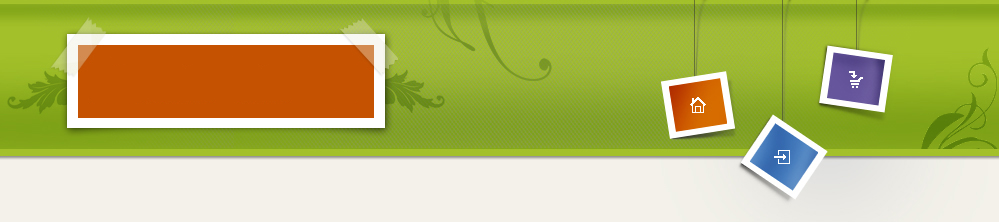
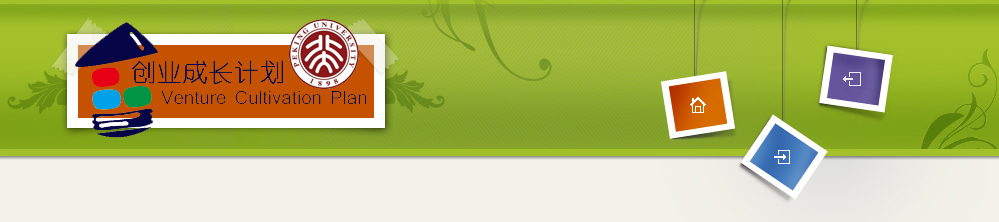
1.修复报名截止、作品提交截止的时间显示错误 2.添加图片替换功能 3.Common.class.php添加删除文件夹和上传文件到指定文件夹 4.修改logo、header

Changed region(s): [[0.0621, 0.0811, 0.3724, 0.6216], [0.8378, 0.3243, 0.8689, 0.4054]]

diff --git a/webApp/Tpl/Admin/Index/leftframe.html b/webApp/Tpl/Admin/Index/leftframe.html
@@ -190,6 +190,8 @@ var preClassName = "";
     outlookbar.additem('作品信息',t,'__GROUP__/Competition/applywork')
     outlookbar.additem('分配作品',t,'__GROUP__/Competition/assignwork')
     outlookbar.additem('回收评审',t,'__GROUP__/Competition/getbackwork')
+    outlookbar.additem('图片管理',t,'__GROUP__/Competition/pictures')
+    
 	
 	t=outlookbar.addtitle('创业导师计划','助跑创业',1)
 	outlookbar.additem('分配导师',t,'__GROUP__/Tutors/assigntutor')
@@ -205,6 +207,7 @@ var preClassName = "";
 	outlookbar.additem('报名情况',t,'__GROUP__/Activity/apply')
 	outlookbar.additem('新闻通知',t,'__GROUP__/Activity/newslist')
 	outlookbar.additem('发布信息',t,'__GROUP__/Activity/news/add')
+	outlookbar.additem('图片管理',t,'__GROUP__/Activity/pictures')
 	
 	t=outlookbar.addtitle('河合创业基金','加油创业',1)
 	outlookbar.additem('新闻通知',t,'__GROUP__/HHFund/newslist')
@@ -215,6 +218,7 @@ var preClassName = "";
     outlookbar.additem('作品信息',t,'__GROUP__/HHFund/applywork')
     outlookbar.additem('分配作品',t,'__GROUP__/HHFund/assignwork')
     outlookbar.additem('回收评审',t,'__GROUP__/HHFund/getbackwork')
+	outlookbar.additem('图片管理',t,'__GROUP__/HHFund/pictures')
 	
 	
 	t=outlookbar.addtitle('腾飞创业','腾飞创业',1)

diff --git a/webApp/Tpl/Home/Index/header.html b/webApp/Tpl/Home/Index/header.html
@@ -1,7 +1,7 @@
 <div id="header">
 	<div id="browsertip"></div>
 	<div id="header_inside">
-		<img src="__PUBLIC__/css/images/index/header2.png" alt="setalpm"
+		<img src="__PUBLIC__/css/images/index/header13.png"
 			width="999" height="222" border="0" usemap="#Map" /><br />
 		<div class="main_nav">
 			<ul id="menu">
@@ -97,6 +97,7 @@
 
 		</div>
 	</div>
+		
 
 </div>
 <map name="Map">

diff --git a/webApp/Lib/Action/Admin/HHFundAction.class.php b/webApp/Lib/Action/Admin/HHFundAction.class.php
@@ -545,5 +545,62 @@ class HHFundAction extends Action{
 			$this->error("未知错误");
 		}
 	}
+	
+	/**
+	 * 图片管理
+	 */
+	public function pictures(){
+		AuthorityAction::checkAdminLogin();
+		if($_POST['imgtype']){
+			if($_POST['imgtype']=="index"){
+				if($_FILES ["file"]&&substr($_FILES["file"]["name"],strlen($_FILES["file"]["name"])-strlen(".png"))==".png"){
+					echo Common::uploadFileForDes("./Public/images/home/", "hhjj.png");
+					echo "<br>更换成功！";
+				}
+			}else if($_POST['imgtype']=="baoming"){
+				if($_FILES ["file"]&&substr($_FILES["file"]["name"],strlen($_FILES["file"]["name"])-strlen(".png"))==".png"){
+					echo Common::uploadFileForDes("./Public/images/home/", "hhjjbm.png");
+					echo "<br>更换成功！";
+				}
+			}else if($_POST['imgtype']=="baomingB"){
+				if($_FILES ["file"]&&substr($_FILES["file"]["name"],strlen($_FILES["file"]["name"])-strlen(".png"))==".png"){
+					echo Common::uploadFileForDes("./Public/images/home/", "hhbaoming.png");
+					echo "<br>更换成功！";
+				}
+			}else if($_POST['imgtype']=="zuopinB"){
+				if($_FILES ["file"]&&substr($_FILES["file"]["name"],strlen($_FILES["file"]["name"])-strlen(".png"))==".png"){
+					echo Common::uploadFileForDes("./Public/images/home/", "hhzuopin.png");
+					echo "<br>更换成功！";
+				}
+			}
+			Common::deleteDir("./webApp/Runtime");
+		}
+		$piclist[0]['id'] = 'index';
+		$piclist[0]['url'] = "__PUBLIC__/images/home/hhjj.png";
+		$piclist[0]['title'] = "创新赛事";
+		$piclist[0]['advice'] = "924*300";
+		$piclist[0]['height'] = "200";
+	
+		$piclist[1]['id'] = 'baoming';
+		$piclist[1]['url'] = "__PUBLIC__/images/home/hhjjbm.png";
+		$piclist[1]['title'] = "报名背景";
+		$piclist[1]['advice'] = "293*268";
+		$piclist[1]['height'] = "200";
+		
+		$piclist[2]['id'] = 'baomingB';
+		$piclist[2]['url'] = "__PUBLIC__/images/home/hhbaoming.png";
+		$piclist[2]['title'] = "报名按钮";
+		$piclist[2]['advice'] = "106*44";
+		$piclist[2]['height'] = "44";
+		
+		$piclist[3]['id'] = 'zuopinB';
+		$piclist[3]['url'] = "__PUBLIC__/images/home/hhzuopin.png";
+		$piclist[3]['title'] = "作品提交按钮";
+		$piclist[3]['advice'] = "106*44";
+		$piclist[3]['height'] = "44";
+	
+		$this->assign("piclist",$piclist);
+		$this->display("Activity:pictures");
+	}
 }
 ?>

diff --git a/webApp/Lib/Action/Admin/CompetitionAction.class.php b/webApp/Lib/Action/Admin/CompetitionAction.class.php
@@ -546,5 +546,63 @@ class CompetitionAction extends Action{
 			$this->error("未知错误");
 		}
 	}
+	
+	/**
+	 * 图片管理
+	 */
+	public function pictures(){
+		AuthorityAction::checkAdminLogin();
+		if($_POST['imgtype']){
+			if($_POST['imgtype']=="index"){
+				if($_FILES ["file"]&&substr($_FILES["file"]["name"],strlen($_FILES["file"]["name"])-strlen(".png"))==".png"){
+					echo Common::uploadFileForDes("./Public/images/home/", "cxss.png");
+					echo "<br>更换成功！";
+				}
+			}else if($_POST['imgtype']=="baoming"){
+				if($_FILES ["file"]&&substr($_FILES["file"]["name"],strlen($_FILES["file"]["name"])-strlen(".png"))==".png"){
+					echo Common::uploadFileForDes("./Public/images/home/", "cxssbm.png");
+					echo "<br>更换成功！";
+				}
+			}
+			else if($_POST['imgtype']=="baomingB"){
+				if($_FILES ["file"]&&substr($_FILES["file"]["name"],strlen($_FILES["file"]["name"])-strlen(".png"))==".png"){
+					echo Common::uploadFileForDes("./Public/images/home/", "baoming.png");
+					echo "<br>更换成功！";
+				}
+			}else if($_POST['imgtype']=="zuopinB"){
+				if($_FILES ["file"]&&substr($_FILES["file"]["name"],strlen(".png"))==".png"){
+					echo Common::uploadFileForDes("./Public/images/home/", "zuopin.png");
+					echo "<br>更换成功！";
+				}
+			}
+			Common::deleteDir("./webApp/Runtime");
+		}
+		$piclist[0]['id'] = 'index';
+		$piclist[0]['url'] = "__PUBLIC__/images/home/cxss.png";
+		$piclist[0]['title'] = "创新赛事";
+		$piclist[0]['advice'] = "924*300";
+		$piclist[0]['height'] = "200";
+		
+		$piclist[1]['id'] = 'baoming';
+		$piclist[1]['url'] = "__PUBLIC__/images/home/cxssbm.png";
+		$piclist[1]['title'] = "报名背景";
+		$piclist[1]['advice'] = "293*268";
+		$piclist[1]['height'] = "200";
+		
+		$piclist[2]['id'] = 'baomingB';
+		$piclist[2]['url'] = "__PUBLIC__/images/home/baoming.png";
+		$piclist[2]['title'] = "报名按钮";
+		$piclist[2]['advice'] = "106*44";
+		$piclist[2]['height'] = "44";
+		
+		$piclist[3]['id'] = 'zuopinB';
+		$piclist[3]['url'] = "__PUBLIC__/images/home/zuopin.png";
+		$piclist[3]['title'] = "作品提交按钮";
+		$piclist[3]['advice'] = "106*44";
+		$piclist[3]['height'] = "44";
+		
+		$this->assign("piclist",$piclist);
+		$this->display("Activity:pictures");
+	}
 }
 ?>

diff --git a/webApp/Lib/Action/Admin/Common.class.php b/webApp/Lib/Action/Admin/Common.class.php
@@ -6,6 +6,53 @@
 * 3、GBK转utf-8（用于下载）
 */
 class Common{
+	
+	/**
+	 * 删除指定目录内所有内容
+	 * @param unknown_type $dir
+	 */
+	public static function deleteDir($dir)
+	{
+		if (rmdir($dir)==false && is_dir($dir)) {
+			if ($dp = opendir($dir)) {
+				while (($file=readdir($dp)) != false) {
+					if (is_dir($file) && $file!='.' && $file!='..') {
+						deleteDir($file);
+					} else {
+						unlink($file);
+					}
+				}
+				closedir($dp);
+			} else {
+				exit('Not permission');
+			}
+		}
+	}
+	
+	/**
+	 * 上传文件到指定文件夹，指定文件名
+	 * @param unknown_type $des
+	 * @param unknown_type $filename
+	 * @return string
+	 */
+	public static function uploadFileForDes($des,$filename) {
+		if(!$_FILES ["file"]) return "nofile";
+		if (($_FILES ["file"] ["size"] < 10 * 1024 * 1024)) {
+	
+			if ($_FILES ["file"] ["error"] > 0) {
+				return ERROR;
+			} else {
+				$destfile = $des . $filename;
+				unlink($destfile);
+				move_uploaded_file ( $_FILES ["file"] ["tmp_name"], Common::utf82gbk($destfile));//上传附件
+				return SUCCESS;
+			}
+		} else {
+			//echo "Invalid file";
+			return "Invalidsize";
+		}
+	}
+	
 	public static function upload($suffix) {//添加后缀形式的文件上传，确保不冲突，以  ### 为分隔
 		if(!$_FILES ["file"]) return "nofile";
 		if (($_FILES ["file"] ["size"] < 10 * 1024 * 1024)) {

diff --git a/webApp/Lib/Action/Home/HhjjAction.class.php b/webApp/Lib/Action/Home/HhjjAction.class.php
@@ -67,10 +67,10 @@ class HhjjAction extends Action {
 			$baomingDay = 0;
 		}elseif(strtotime($now)>strtotime($act['st'])&&strtotime($now)<strtotime($act['at'])){
 			$baomingMsg = "baoming";
-			$baomingDay = date("d",strtotime($act['at'])-strtotime($now)); 
+			$baomingDay = round((strtotime($act['at'])-strtotime($now))/3600/24); 
 		}elseif(strtotime($now)>strtotime($act['at'])&&strtotime($now)<=strtotime($act['et'])){
 			$baomingMsg = "zuopin";
-			$baomingDay = date("d",strtotime($act['et'])-strtotime($now));		
+			$baomingDay = round((strtotime($act['et'])-strtotime($now))/3600/24);		
 		}else{
 			$baomingMsg = "敬请期待赛事来临";
 			$baomingDay = 0;
@@ -105,10 +105,10 @@ class HhjjAction extends Action {
 		$baomingButton = null;
 		$imgurl = null;
 		if($baomingMsg=="baoming"){
-			$baomingButton = "__PUBLIC__/images/home/baoming.png";
+			$baomingButton = "__PUBLIC__/images/home/hhbaoming.png";
 			$imgurl = "__URL__/baoming";
 		}elseif($baomingMsg=="zuopin"){
-			$baomingButton = "__PUBLIC__/images/home/zuopin.png";
+			$baomingButton = "__PUBLIC__/images/home/hhzuopin.png";
 			$imgurl = "__URL__/zuopin";
 		}
 		$this->assign("imgurl",$imgurl);

diff --git a/webApp/Lib/Action/Admin/ActivityAction.class.php b/webApp/Lib/Action/Admin/ActivityAction.class.php
@@ -280,5 +280,27 @@ class ActivityAction extends Action{
 		$this->assign("newslist",$newslist);
 		$this->display("applylist");
 	}
+	
+	/**
+	 * 图片管理
+	 */
+	public function pictures(){
+		AuthorityAction::checkAdminLogin();
+		if($_POST['imgtype'] == 'index'){
+			if($_FILES ["file"]&&substr($_FILES["file"]["name"],strlen($_FILES["file"]["name"])-strlen(".png"))==".png"){
+				echo Common::uploadFileForDes("./Public/images/home/", "gjjl.png");
+				echo "<br>更换成功！";
+			}
+			Common::deleteDir("./webApp/Runtime");
+		}
+		$piclist[0]['id'] = 'index';
+		$piclist[0]['url'] = "__PUBLIC__/images/home/gjjl.png";
+		$piclist[0]['title'] = "国际交流首页图片";
+		$piclist[0]['advice'] = "924*300";
+		$piclist[0]['height'] = "200";
+		
+		$this->assign("piclist",$piclist);
+		$this->display("pictures");
+	}
 }
 ?>

diff --git a/webApp/Lib/Action/Home/CxssAction.class.php b/webApp/Lib/Action/Home/CxssAction.class.php
@@ -57,10 +57,10 @@ class CxssAction extends Action{
 			$baomingDay = 0;
 		}elseif(strtotime($now)>strtotime($act['st'])&&strtotime($now)<strtotime($act['at'])){
 			$baomingMsg = "baoming";
-			$baomingDay = date("d",strtotime($act['at'])-strtotime($now)); 
+			$baomingDay = round((strtotime($act['at'])-strtotime($now))/3600/24); 
 		}elseif(strtotime($now)>strtotime($act['at'])&&strtotime($now)<=strtotime($act['et'])){
 			$baomingMsg = "zuopin";
-			$baomingDay = date("d",strtotime($act['et'])-strtotime($now));		
+			$baomingDay = round((strtotime($act['et'])-strtotime($now))/3600/24);		
 		}elseif(strtotime($now)>strtotime($act['at'])){
 			$baomingMsg = "报名已截止！";
 			$baomingDay = 0;
